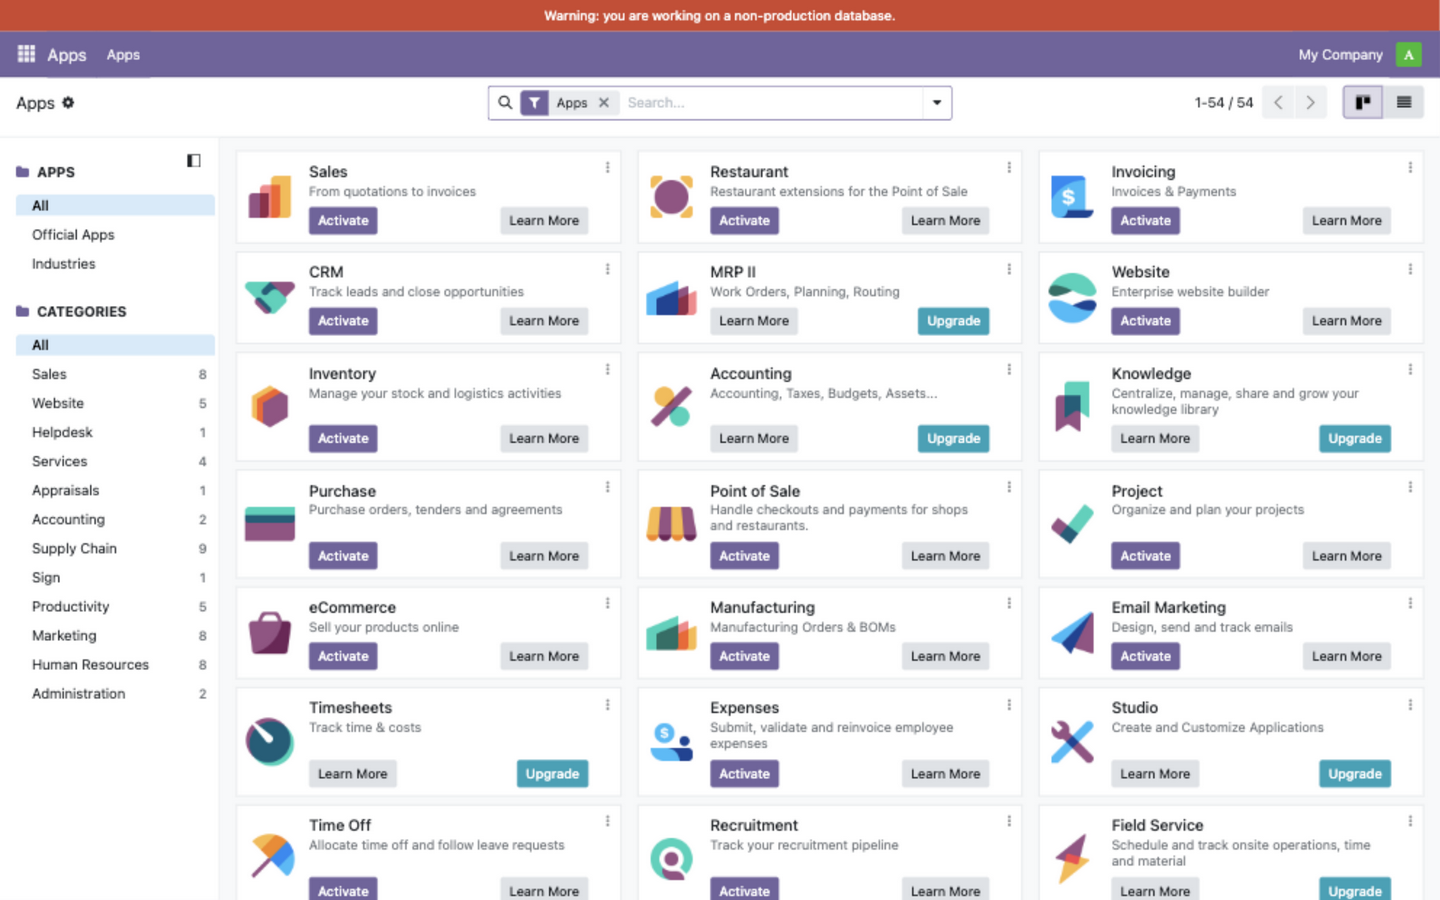
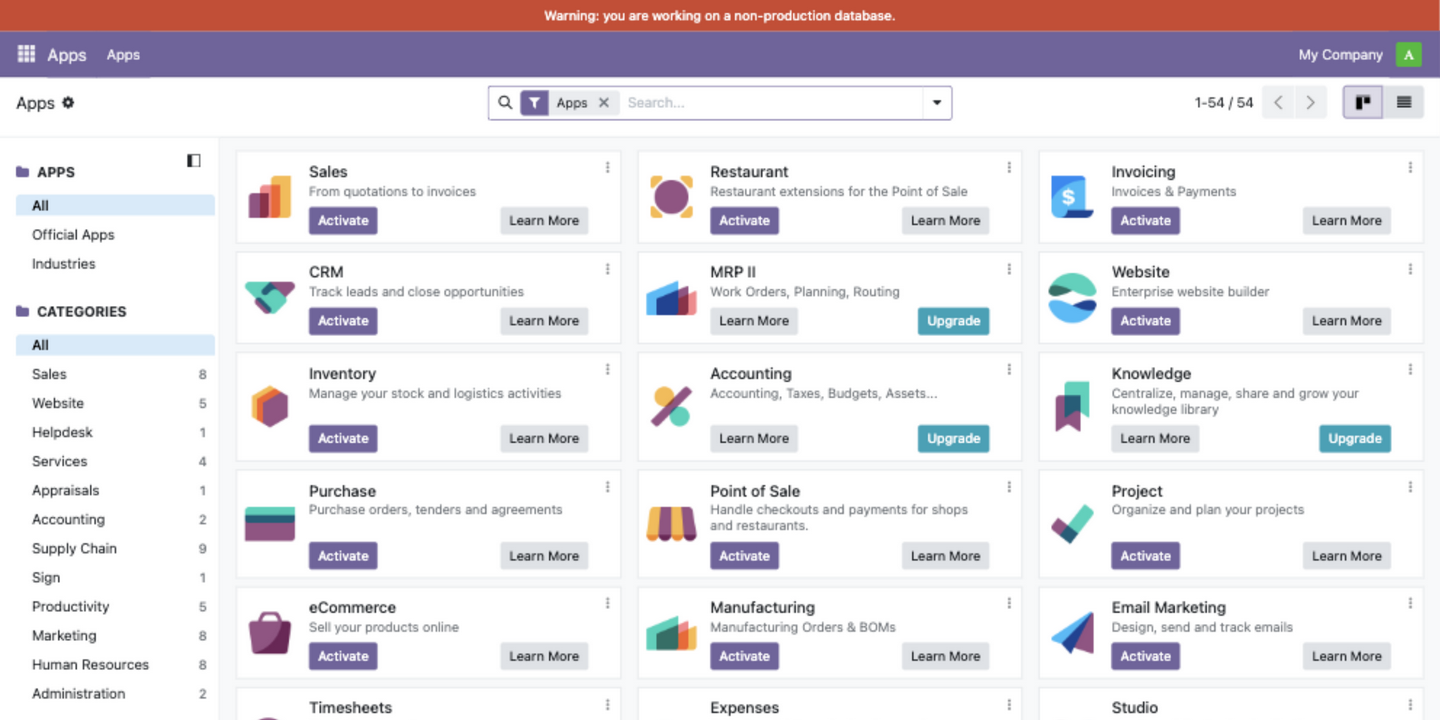
[IMP] ty_environment_banner: automatic update
Auto-generated commit based on local changes.

diff --git a/ty_environment_banner/static/description/index.html b/ty_environment_banner/static/description/index.html
@@ -10,7 +10,7 @@
     <hr style="border: none; border-top: 1px solid #E5E7EB; margin: 16px 0 28px 0;"/>
 
     <div style="text-align: center; margin: 0 0 28px 0;">
-        <img src="main_screenshot.png" alt="Default red warning banner above the Odoo navbar"
+        <img src="./images/main_screenshot.png" alt="Default red warning banner above the Odoo navbar"
              style="max-width: 100%; border: 1px solid #E5E7EB; border-radius: 8px; box-shadow: 0 2px 8px rgba(22,33,62,0.08);"/>
         <p style="font-size: 13px; color: #6B7280; margin: 8px 0 0 0;">
             The default banner, shown automatically on a staging database.
@@ -83,7 +83,7 @@
     </p>
 
     <div style="text-align: center; margin: 24px 0;">
-        <img src="custom_banner.png" alt="Custom purple banner with a custom label"
+        <img src="./images/custom_banner.png" alt="Custom purple banner with a custom label"
              style="max-width: 100%; border: 1px solid #E5E7EB; border-radius: 8px; box-shadow: 0 2px 8px rgba(22,33,62,0.08);"/>
         <p style="font-size: 13px; color: #6B7280; margin: 8px 0 0 0;">
             Fully customizable: your own text, your own color.
@@ -91,7 +91,7 @@
     </div>
 
     <div style="text-align: center; margin: 24px 0;">
-        <img src="banner_inside_app.png" alt="The banner stays visible inside every application"
+        <img src="./images/banner_inside_app.png" alt="The banner stays visible inside every application"
              style="max-width: 100%; border: 1px solid #E5E7EB; border-radius: 8px; box-shadow: 0 2px 8px rgba(22,33,62,0.08);"/>
         <p style="font-size: 13px; color: #6B7280; margin: 8px 0 0 0;">
             The banner follows users into every application — impossible to miss.
